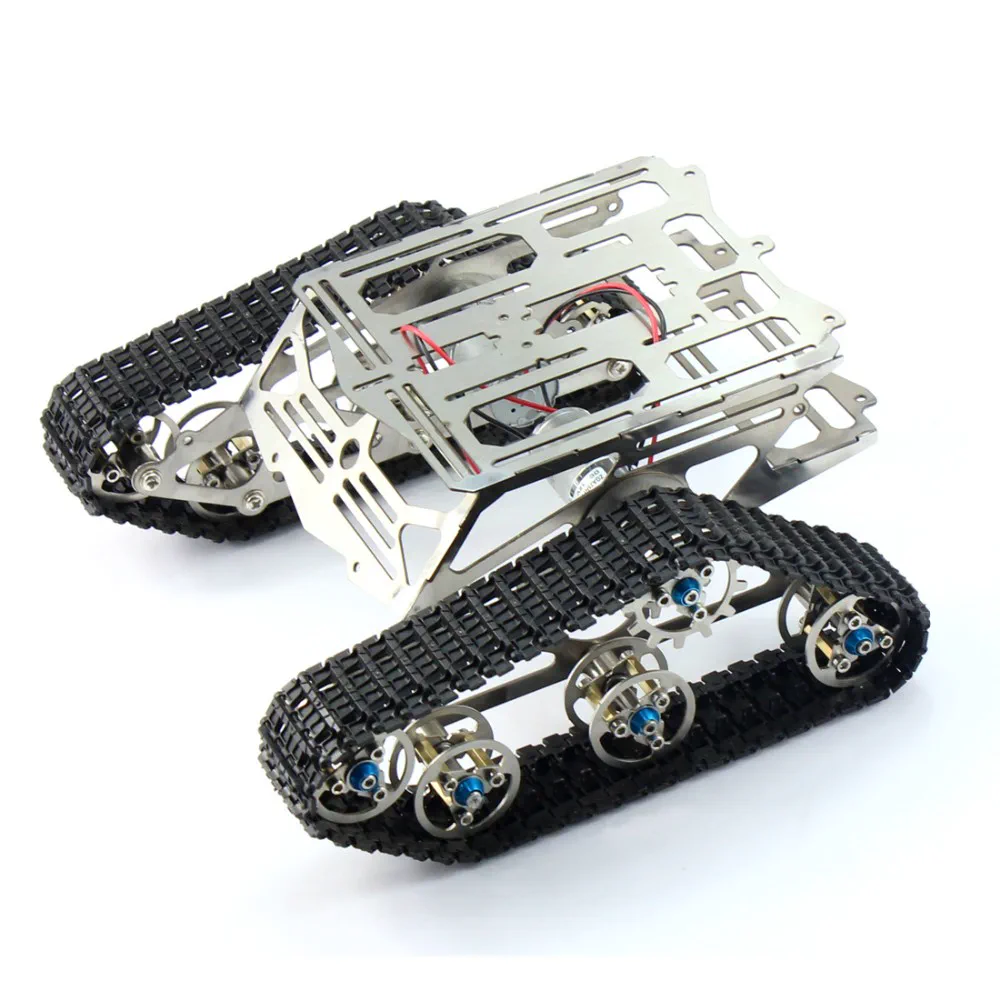
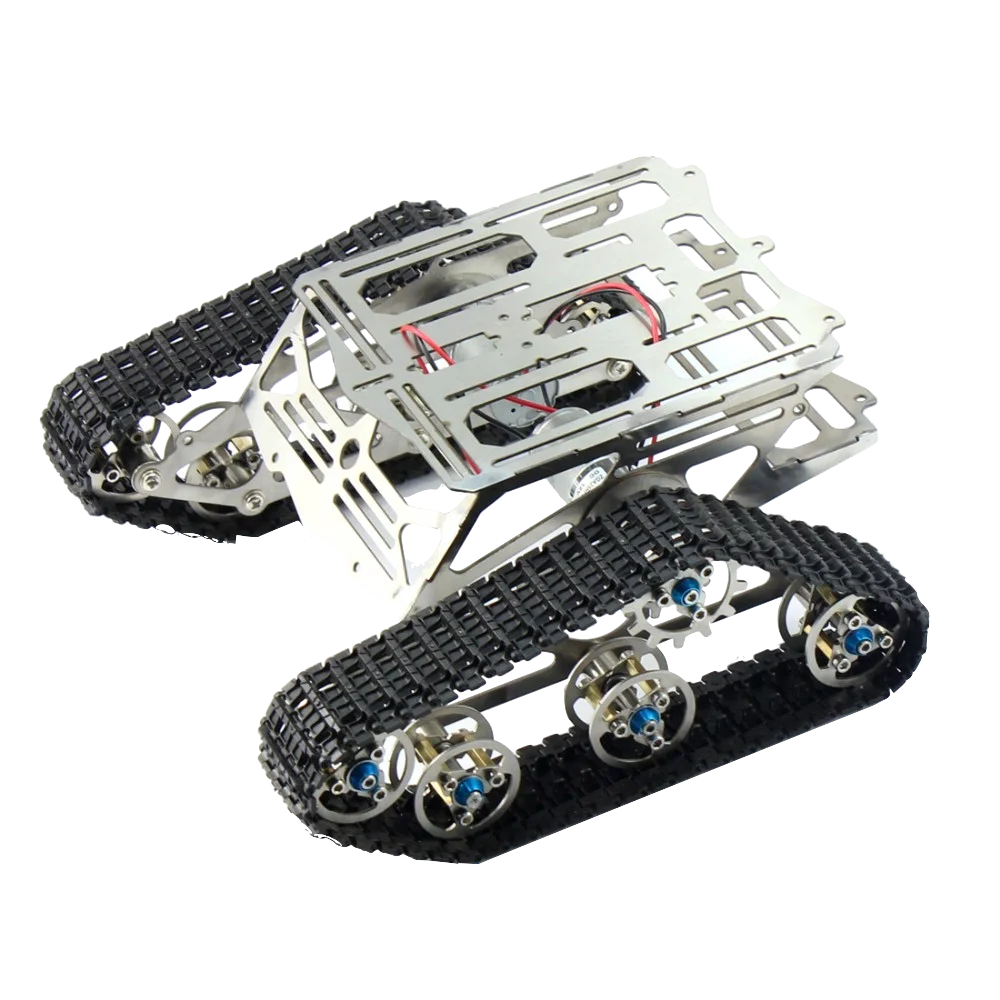
Refresh Steve post media

diff --git a/log/steve.html b/log/steve.html
@@ -27,68 +27,61 @@
     <h1 class="blog-title">Steve the Robot</h1>
 
     <p class="muted">
-      Pi 5 brain, OAK-D eyes, and a lot of vibecadding. Also: a shameless shout-out to my silicon co-pilot (hi, ChatGPT).
+      On January 20, 2017 I told my friend I built a robot. He said "Once it can fetch you a beer, I will be seriously impressed."
+      <br>Enter Steve–my deep dive into percieving the world robotically. How do you find a beer? How do you find a fridge? How do
+
+      Mark Zuckerberg's <a href=https://www.facebook.com/notes/775294156352065/>Building Jarvis</a> post was one of my first inspirations at this time.
+
+      A decade later with things like SAM, and cheap LiDAR, an entity focused spatial understanding feels distinctly acheivable.
     </p>
-
-    <!-- Bill of Materials -->
-    <h2>Bill of Materials</h2>
-    <p>Core components for the current Steve build. I’ll add wiring notes and PDFs here later.</p>
-
-    <div class="grid-links">
-      <a href="https://wiki.dfrobot.com/devastator_tank_mobile_platform_sku_rob0112" target="_blank" rel="noopener">
-        <div class="part-thumb">
-          <img src="/assets/img/posts/steve/robotchassis.png" alt="DFRobot Devastator Tank Mobile Platform" loading="lazy" decoding="async" width="150" height="150">
-        </div>
-        <p>DFRobot Devastator Tank Mobile Platform</p>
-      </a>
-
-      <a href="https://shop.unitree.com/en-gb/products/unitree-4d-lidar-l2" target="_blank" rel="noopener">
-        <div class="part-thumb">
-          <img src="/assets/img/posts/steve/unitree-l2-lidar.png" alt="Unitree L2 LiDAR" loading="lazy" decoding="async" width="150" height="150">
-        </div>
-        <p>Unitree L2 LiDAR</p>
-      </a>
-
-      <a href="https://shop.luxonis.com/products/oak-d" target="_blank" rel="noopener">
-        <div class="part-thumb">
-          <img src="/assets/img/posts/steve/oak-d.png" alt="Luxonis OAK-D camera" loading="lazy" decoding="async" width="150" height="150">
-        </div>
-        <p>Luxonis OAK-D</p>
-      </a>
-
-      <a href="https://www.raspberrypi.com/products/raspberry-pi-5/" target="_blank" rel="noopener">
-        <div class="part-thumb">
-          <img src="/assets/img/posts/steve/raspberry-pi-5.png" alt="Raspberry Pi 5" loading="lazy" decoding="async" width="150" height="150">
-        </div>
-        <p>Raspberry Pi 5</p>
-      </a>
-
-      <a href="https://www.amazon.com/s?k=Teyleten+Robot+TB6612FNG+Dual+DC+Stepper+Motor+Driver+Module+1.2A+Peak+3.2A+Better+Than+L298N+Pack+of+3" target="_blank" rel="noopener">
-        <div class="part-thumb">
-          <img src="/assets/img/posts/steve/tb6612fng.png" alt="TB6612FNG motor driver module" loading="lazy" decoding="async" width="150" height="150">
-        </div>
-        <p>TB6612FNG Motor Driver</p>
-      </a>
-    </div>
 
     <!-- Background -->
     <h2>Background</h2>
     <p>
-      Circa <strong>2017</strong>, baby Steve rolled for the first time—loose wires, scuffed treads, big dreams.
-      Extremely cute, slightly alarming, and absolutely the moment the mission creep began.
+      There's an intense joy in pressing a key and hearing something in the physical world twich
+      because of the code you've written. I got a raspberry pi for christmas a decade or so ago.
+      A few years later I switched my major to computer science, and I felt like I no longer had
+      an excuse not to work on it. I had also gotten some circuitry stuff from adafruit, so I went
+      in the hardware direction. I pulled boilerplate code to talk to an LCD screen, an ultrasonic rangefinder, a servo. I had
+      a little remote control bulldozer toy from my childhood with dupont connectors. Halfway
+      through winter break I figured out that transistors weren't ideal for bidirectional DC
+      motor control, and I found the L293D motor driver,
+      <a href=https://www.instructables.com/How-to-use-the-L293D-Motor-Driver-Arduino-Tutorial/>and this tutorial</a>
+      for how to control motors with it. I pulled several all-nighters watching the office, and finally got it moving forward and back.
     </p>
 
-    <!-- Baby video -->
-    <figure class="frame" style="margin:1.25rem 0">
-      <video class="media" controls preload="metadata" poster="/assets/img/posts/steve/baby-steve-2017-poster.jpg" style="width:100%;border-radius:12px">
-        <source src="/assets/video/posts/steve/oldsteve.webm" type="video/webm" />
-        <source src="/assets/video/posts/steve/oldsteve.mp4" type="video/mp4" />
-        Sorry, your browser doesn’t support embedded videos.
-      </video>
-      <figcaption style="text-align:center; opacity:.85; margin-top:.5rem;">
-        Baby Steve (2017): the primordial wobble.
-      </figcaption>
-    </figure>
+    <div class="gallery three" style="--ratio: 1/1;">
+      <div>
+        <figure class="frame">
+          <video class="media" controls preload="metadata" poster="/assets/img/posts/steve/baby-steve-2017-poster.jpg" style="width:100%;height:100%;object-fit:cover;">
+            <source src="/assets/video/posts/steve/oldsteve.webm" type="video/webm" />
+            <source src="/assets/video/posts/steve/oldsteve.mp4" type="video/mp4" />
+            Sorry, your browser doesn’t support embedded videos.
+          </video>
+        </figure>
+        <div class="caption">Baby Steve (2017): the primordial wobble.</div>
+      </div>
+
+      <div>
+        <figure class="frame">
+          <picture>
+            <source srcset="/assets/img/posts/steve/oldarm.webp" type="image/webp">
+            <img src="/assets/img/posts/steve/oldarm.png" alt="Early Steve arm hardware" loading="lazy" decoding="async">
+          </picture>
+        </figure>
+        <div class="caption">Early arm hardware.</div>
+      </div>
+
+      <div>
+        <figure class="frame">
+          <picture>
+            <source srcset="/assets/img/posts/steve/oldeyes.webp" type="image/webp">
+            <img src="/assets/img/posts/steve/oldeyes.jpeg" alt="Early Steve camera setup" loading="lazy" decoding="async">
+          </picture>
+        </figure>
+        <div class="caption">Early eyes.</div>
+      </div>
+    </div>
 
     <!-- Vibecadding -->
     <h2>Vibecadding: draw → print → test → repeat</h2>
@@ -101,6 +94,13 @@
       <li><strong>Constraint discovery:</strong> the part tells you what’s wrong when it touches reality.</li>
       <li><strong>Confidence compounding:</strong> many small wins &gt; one mythical “final” design.</li>
     </ul>
+
+    <figure class="frame" style="--ratio: 942/800; margin:1.25rem 0">
+      <picture>
+        <source srcset="/assets/img/posts/steve/cad.webp" type="image/webp">
+        <img src="/assets/img/posts/steve/cad.jpeg" alt="CAD model for Steve parts" loading="lazy" decoding="async">
+      </picture>
+    </figure>
 
     <!-- OAK-D + wiring -->
     <h2>Brains &amp; Eyes: Pi 5 + OAK-D, and a saner wiring loom</h2>
@@ -138,26 +138,75 @@
       </figcaption>
     </figure>
 
-    <!-- Quick hits -->
-    <h3>What worked (and what didn’t)</h3>
-    <ul>
-      <li>✅ <strong>Vibecad FTW:</strong> fitment bugs die fast when you print the problem.</li>
-      <li>✅ <strong>Shared ground:</strong> half the “mystery bugs” vanished.</li>
-      <li>✅ <strong>UI first:</strong> seeing state (and a panic stop) shortens the debug loop.</li>
-      <li>❌ <strong>Floating references:</strong> unreliable signals until we normalized grounds.</li>
-      <li>❌ <strong>Cable spaghetti:</strong> first harness drafted by a plate of linguine. Now: labeled + strain-relieved.</li>
-    </ul>
+    <!-- LiDAR -->
+    <h2>LiDAR</h2>
+    <p>
+      The LiDAR pass is the next layer of Steve’s spatial awareness. For now this is a parking spot for the sensor
+      mounting work, scan experiments, and the notes that will eventually turn into a more useful mapping pipeline.
+    </p>
 
-    <!-- Future Work -->
-    <h2>Future Work</h2>
-    <ul>
-      <li>Lightweight ORB-SLAM-ish pipeline with OAK-D features as priors.</li>
-      <li>Real-time point-cloud streaming to a laptop app (WebRTC/ZeroMQ → Qt/GL).</li>
-      <li>FOC/closed-loop drive for smoother low-speed torque.</li>
-      <li>Battery mgmt: smart pack + single-port charge-in-place.</li>
-      <li>Autonomy v0.1: corridor following, docking, and “fetch coffee” (stretch).</li>
-      <li>LED halo revival, because vibes.</li>
-    </ul>
+    <div class="gallery two" style="--ratio: 1/1;">
+      <div>
+        <figure class="frame">
+          <picture>
+            <source srcset="/assets/img/posts/steve/lidar.webp" type="image/webp">
+            <img src="/assets/img/posts/steve/lidar.png" alt="LiDAR mounted on Steve" loading="lazy" decoding="async">
+          </picture>
+        </figure>
+        <div class="caption">LiDAR mount.</div>
+      </div>
+
+      <div>
+        <figure class="frame">
+          <picture>
+            <source srcset="/assets/img/posts/steve/scan.webp" type="image/webp">
+            <img src="/assets/img/posts/steve/scan.png" alt="LiDAR scan output" loading="lazy" decoding="async">
+          </picture>
+        </figure>
+        <div class="caption">First scan output.</div>
+      </div>
+    </div>
+
+    <!-- Bill of Materials -->
+    <h2>Bill of Materials</h2>
+    <p>Core components for the current Steve build. I’ll add wiring notes and PDFs here later.</p>
+
+    <div class="grid-links">
+      <a href="/assets/img/posts/steve/robotchassis.png" target="_blank" rel="noopener">
+        <div class="part-thumb">
+          <img src="/assets/img/posts/steve/robotchassis.png" alt="eBay track chassis" loading="lazy" decoding="async" width="150" height="150">
+        </div>
+        <p>eBay Track Chassis</p>
+      </a>
+
+      <a href="https://shop.unitree.com/en-gb/products/unitree-4d-lidar-l2" target="_blank" rel="noopener">
+        <div class="part-thumb">
+          <img src="/assets/img/posts/steve/unitree-l2-lidar.png" alt="Unitree L2 LiDAR" loading="lazy" decoding="async" width="150" height="150">
+        </div>
+        <p>Unitree L2 LiDAR</p>
+      </a>
+
+      <a href="https://shop.luxonis.com/products/oak-d" target="_blank" rel="noopener">
+        <div class="part-thumb">
+          <img src="/assets/img/posts/steve/oak-d.png" alt="Luxonis OAK-D camera" loading="lazy" decoding="async" width="150" height="150">
+        </div>
+        <p>Luxonis OAK-D</p>
+      </a>
+
+      <a href="https://www.raspberrypi.com/products/raspberry-pi-5/" target="_blank" rel="noopener">
+        <div class="part-thumb">
+          <img src="/assets/img/posts/steve/raspberry-pi-5.png" alt="Raspberry Pi 5" loading="lazy" decoding="async" width="150" height="150">
+        </div>
+        <p>Raspberry Pi 5</p>
+      </a>
+
+      <a href="https://www.amazon.com/s?k=Teyleten+Robot+TB6612FNG+Dual+DC+Stepper+Motor+Driver+Module+1.2A+Peak+3.2A+Better+Than+L298N+Pack+of+3" target="_blank" rel="noopener">
+        <div class="part-thumb">
+          <img src="/assets/img/posts/steve/tb6612fng.png" alt="TB6612FNG motor driver module" loading="lazy" decoding="async" width="150" height="150">
+        </div>
+        <p>TB6612FNG Motor Driver</p>
+      </a>
+    </div>
 
     <!-- Credit -->
     <p class="muted">

diff --git a/index.html b/index.html
@@ -80,7 +80,10 @@
                     
                     <!-- Card 3 -->
                     <a href="/log/steve.html" class="card">
-                        <img src="/assets/img/lander/steve.webp" class="card-icon-img" alt="Steve Picture" />
+                        <picture>
+                            <source srcset="/assets/img/lander/steveicon.webp" type="image/webp">
+                            <img src="/assets/img/lander/steveicon.png" class="card-icon-img" alt="Steve Picture" />
+                        </picture>
                         <div class="card-body">
                             <h3 class="card-title">Steve</h3>
                             <p class="card-subtitle">the robot</p>

diff --git a/assets/css/style.css b/assets/css/style.css
@@ -120,6 +120,10 @@ img,video{max-width:100%;height:auto;display:block}
   flex:0 0 var(--icon-size);
   border-radius:50%;object-fit:cover;display:block;margin:0;
 }
+.card-grid picture{
+  flex:0 0 var(--icon-size);
+  display:block;
+}
 .card-grid .card-body{
   flex:1 1 auto;height:100%;
   display:flex;flex-direction:column;justify-content:center;

diff --git a/assets/css/blog.css b/assets/css/blog.css
@@ -90,6 +90,11 @@
   object-fit: cover;         /* perfectly aligned crops */
   display: block;
 }
+.frame picture {
+  display: block;
+  width: 100%;
+  height: 100%;
+}
 .caption {
   text-align: center;
   font-size: 0.9rem;
